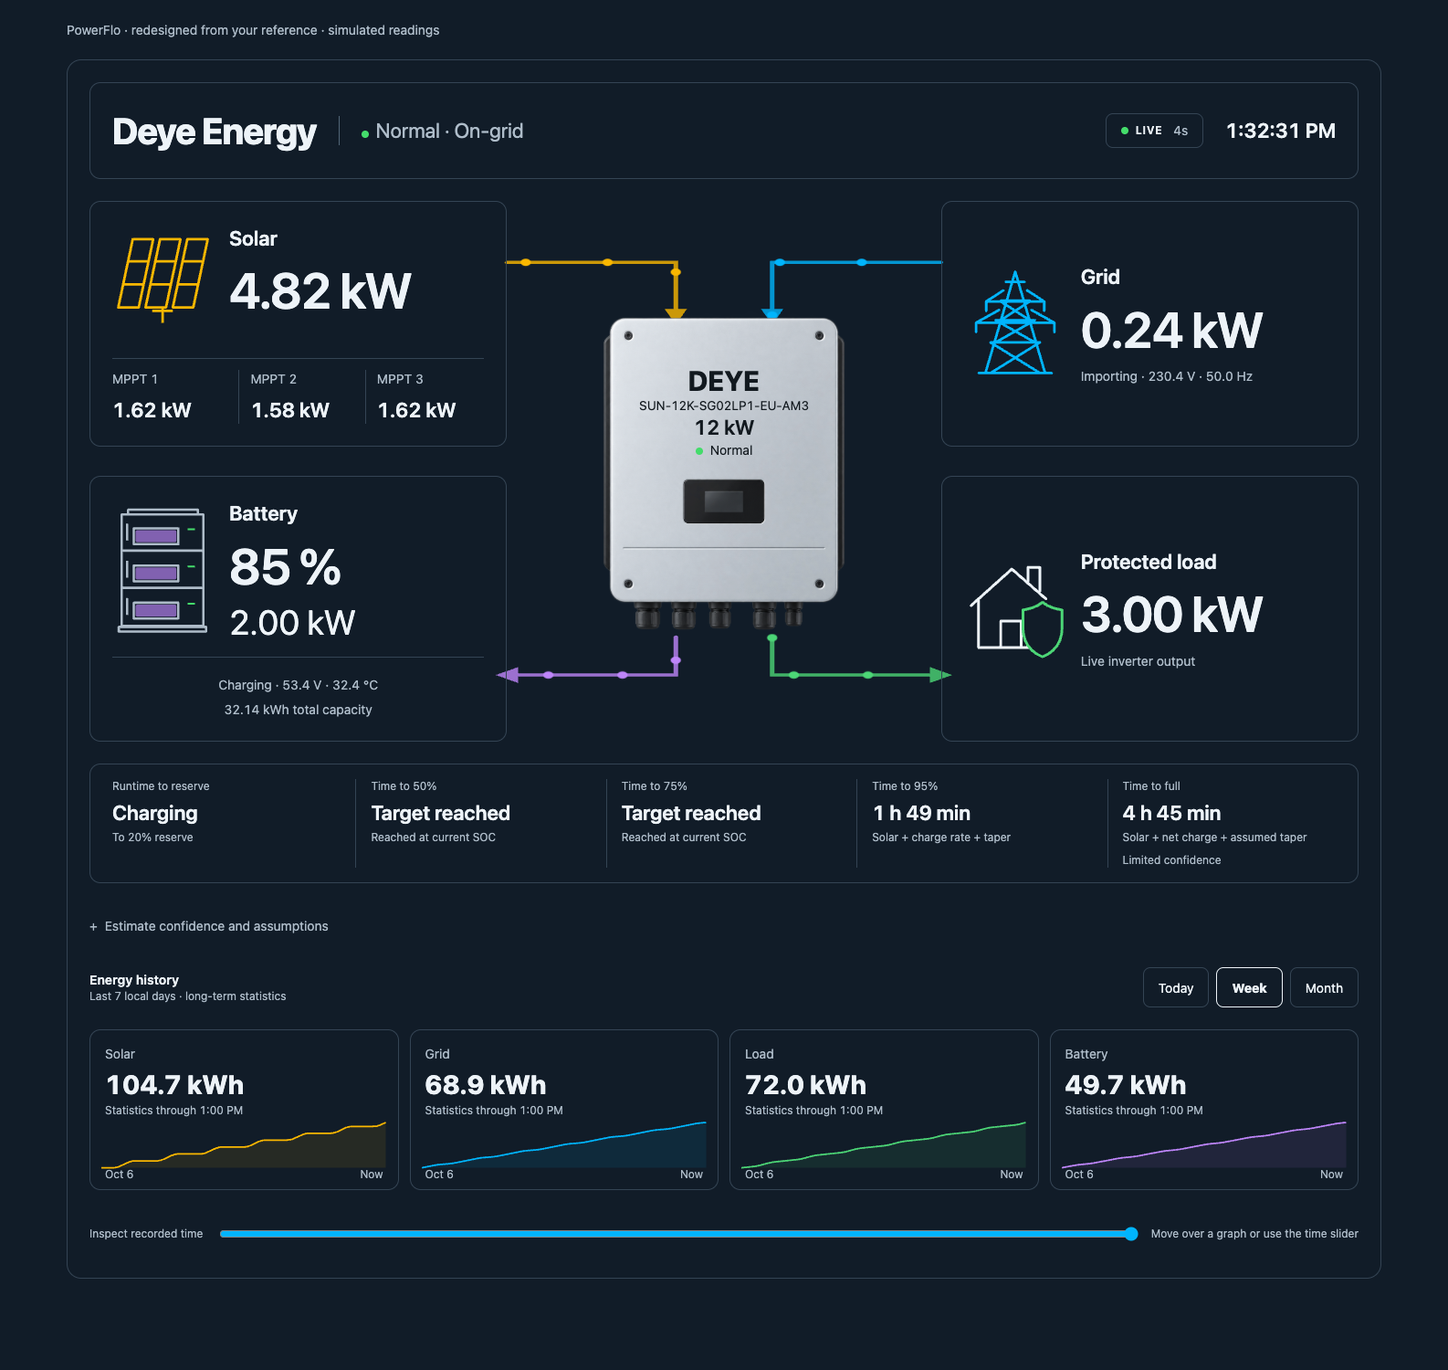
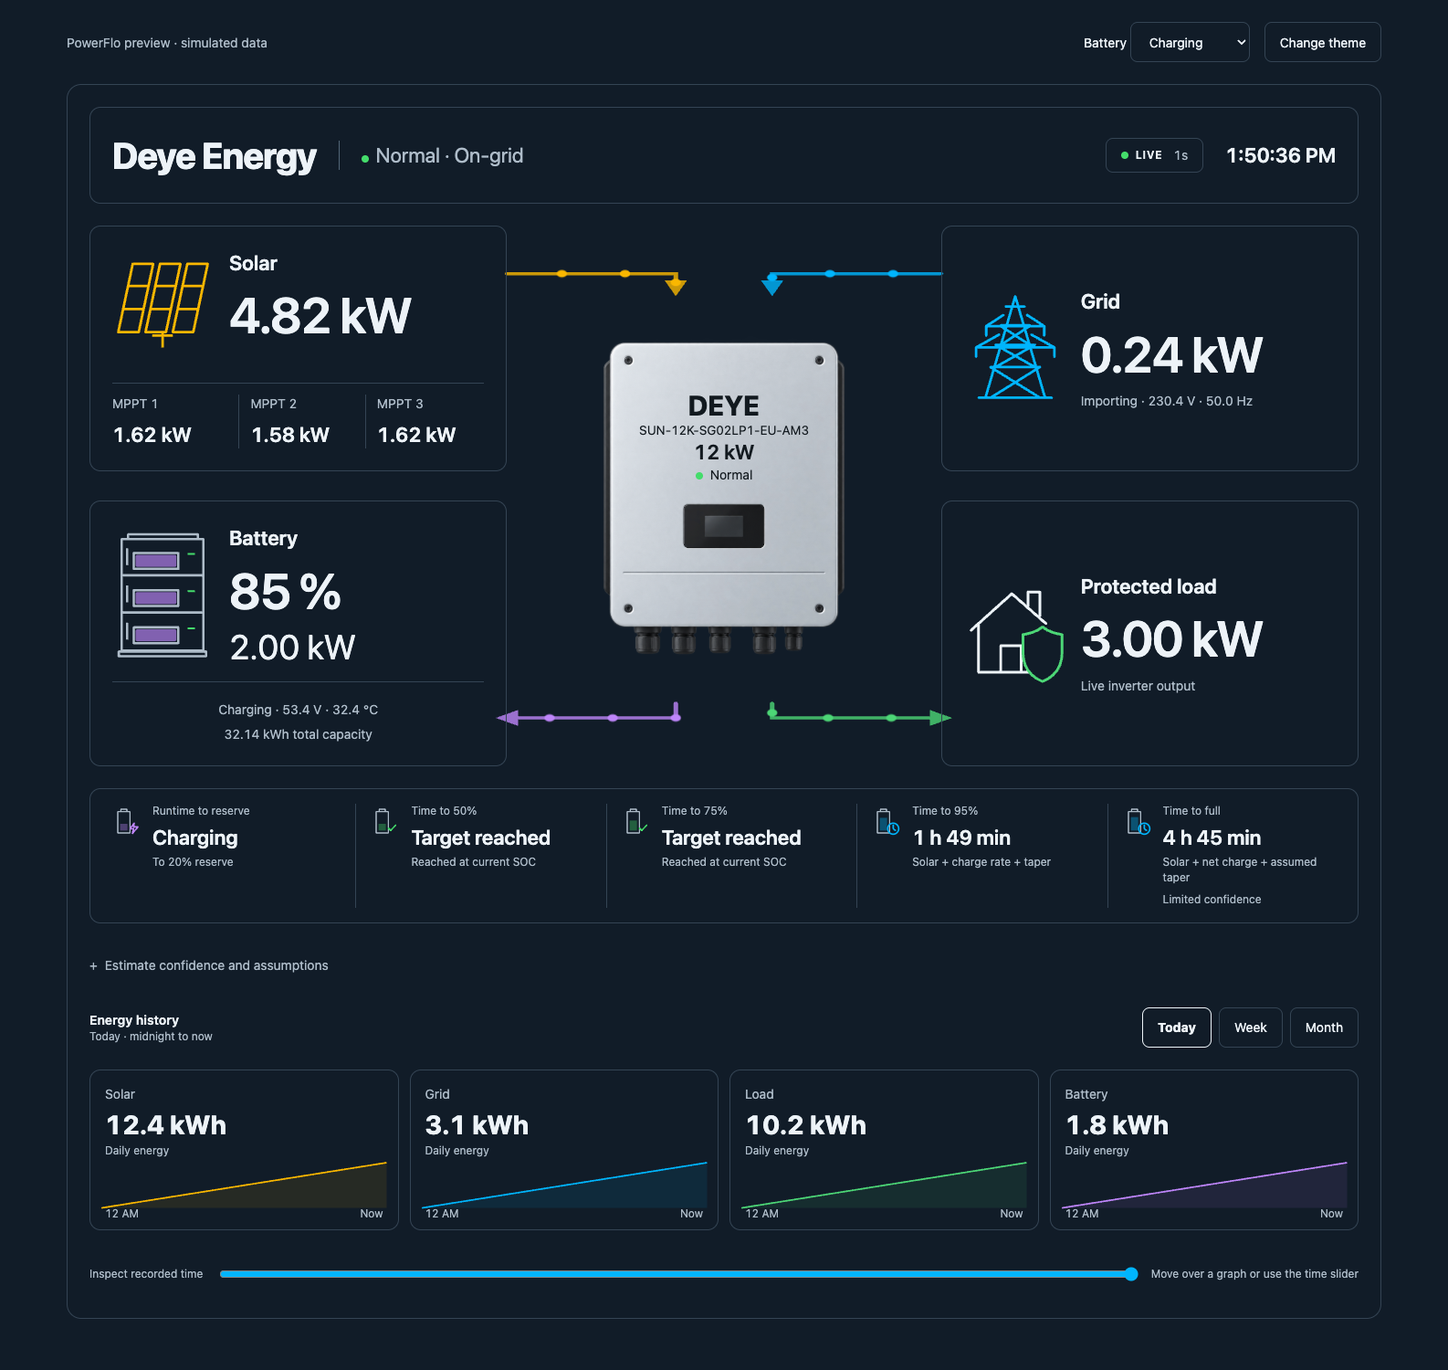
Keep PowerFlo arrows clear and illustrate forecast states
Completed: image-safe reversible connector routes; visible arrowhead clearance; state-aware illustrations beside runtime and all SOC/full estimates; icon-free energy summaries preserved; updated simulated preview and documentation; 69 passing tests, lint, coverage and build; refreshed local code graph.

diff --git a/src/card.js b/src/card.js
@@ -2,12 +2,12 @@
 import { normalizeConfig, validateConfig } from "./config.js";
 import { FlowAnimator } from "./flow-engine.js";
 import { appendHistoryPoint, downsample, sparklinePath } from "./history.js";
-import { batteryBankIcon, gridIcon, loadIcon, solarIcon } from "./icons.js";
+import { batteryBankIcon, forecastIcon, gridIcon, loadIcon, solarIcon } from "./icons.js";
 import { loadPeriodHistory, periodEnergy, periodRange } from "./period-history.js";
 import { deriveModel, numericState } from "./state-model.js";
 import { BatteryChargeEstimator, BatteryRuntimeEstimator, formatRuntime } from "./runtime.js";
 import { cardStyles } from "./styles.js";
-import { FLOW_GEOMETRY } from "./tokens.js";
+import { connectorPath } from "./connector-geometry.js";
 import { estimateConfidence, projectCharge } from "./charge-model.js";
 import { nearestObservation } from "./chart-inspection.js";
 import { loadEnergyStatistics } from "./statistics.js";
@@ -163,17 +163,9 @@ export class PowerFloCard extends HTMLElement {
     const canvas = this.shadowRoot.querySelector(".topology").getBoundingClientRect();
     if (!canvas.width || !canvas.height) return;
     const inverter = this.shadowRoot.querySelector(".inverter-visual").getBoundingClientRect();
-    const x = coordinate => (coordinate - canvas.left) / canvas.width * FLOW_GEOMETRY.width;
-    const y = coordinate => (coordinate - canvas.top) / canvas.height * FLOW_GEOMETRY.height;
     for (const name of FLOW_NAMES) {
       const node = this.shadowRoot.querySelector(`.node.${name}`).getBoundingClientRect();
-      const left = name === "solar" || name === "battery";
-      const upper = name === "solar" || name === "grid";
-      const fromX = x(left ? node.right : node.left);
-      const fromY = y(node.top + node.height * (upper ? FLOW_GEOMETRY.sourceUpper : FLOW_GEOMETRY.sourceLower));
-      const toX = x(inverter.left + inverter.width * (left ? FLOW_GEOMETRY.leftPort : FLOW_GEOMETRY.rightPort));
-      const toY = y(inverter.top + inverter.height * (upper ? FLOW_GEOMETRY.upperAnchor : FLOW_GEOMETRY.lowerAnchor));
-      this.shadowRoot.querySelector(`[data-flow-path="${name}"]`).setAttribute("d", `M${fromX} ${fromY} H${toX} V${toY}`);
+      this.shadowRoot.querySelector(`[data-flow-path="${name}"]`).setAttribute("d", connectorPath(canvas, inverter, node, name));
     }
   }
 
@@ -209,6 +201,16 @@ export class PowerFloCard extends HTMLElement {
       <footer class="summaries">${SUMMARY_NAMES.map(name => `<section class="summary" data-domain="${name}"><div class="summary-header">${label(name)}<span class="summary-value" data-summary-value="${name}"></span></div><div class="summary-coverage" data-coverage="${name}"></div><svg class="spark" viewBox="0 0 100 36" preserveAspectRatio="none" aria-hidden="true"><path class="area" data-summary-area="${name}"></path><path data-summary-path="${name}"></path><line class="chart-cursor" data-cursor="${name}" y1="0" y2="36" hidden></line></svg><div class="inspection-value" data-inspection="${name}"></div><div class="spark-labels"><span data-period-start></span><span>Now</span></div></section>`).join("")}</footer>
       <div class="chart-inspector"><label for="history-cursor">Inspect recorded time</label><input id="history-cursor" type="range" min="0" max="1000" value="1000"><output class="inspection-time" aria-live="polite">Move over a graph or use the time slider</output></div>
     </div></ha-card>`;
+    for (const [index, item] of [...this.shadowRoot.querySelectorAll(".forecast-item")].entries()) {
+      const content = document.createElement("div");
+      content.className = "forecast-content";
+      content.append(...item.childNodes);
+      const icon = document.createElement("div");
+      icon.className = "forecast-icon";
+      icon.dataset.forecastIcon = ["runtime", "50", "75", "95", "full"][index];
+      icon.setAttribute("aria-hidden", "true");
+      item.append(icon, content);
+    }
     for (const button of this.shadowRoot.querySelectorAll("[data-period]")) button.addEventListener("click", () => this.selectPeriod(button.dataset.period));
     // Channel readings use the full solar panel width rather than crowding the power column.
     this.shadowRoot.querySelector(".solar").append(this.shadowRoot.querySelector(".mppts"));
@@ -326,6 +328,7 @@ export class PowerFloCard extends HTMLElement {
       windowMs: this.config.runtime_window_minutes * 60_000, maxAgeMs: this.config.runtime_max_sample_age_seconds * 1000 };
     const runtime = this.runtimeEstimator.observe(input);
     const charge = this.chargeEstimator.observe(input);
+    this.updateForecastIcon("runtime", runtime.status);
     const states = { warming: "Collecting data", charging: "Charging", discharging: "Not charging", static: "Not discharging",
       unavailable: "Unavailable", reserve: "Reserve reached", target: "Target reached" };
     this.setText('[data-meta="battery-runtime"]', runtime.status === "ready" ? formatRuntime(runtime.hours) : runtime.status === "warming" ? "Collecting discharge data" : states[runtime.status]);
@@ -345,12 +348,14 @@ export class PowerFloCard extends HTMLElement {
       solarWatts: solar, gridImportWatts: gridImport, forecastSolarWatts: validForecast, solarHours: horizon,
       taperStart: this.config.charge_taper_start_soc, taperFloor: this.config.charge_taper_floor_ratio });
     const chargeResult = projection(this.config.battery_charge_target_soc);
+    this.updateForecastIcon("full", chargeResult.status, this.config.battery_charge_target_soc);
     const chargeText = result => result.status === "ready" ? formatRuntime(result.hours) : result.status === "solar-limited" ? "Needs more solar" :
       result.status === "warming" ? "Collecting charge data" : result.status === "static" ? "Not charging" : states[result.status];
     this.setText('[data-meta="battery-charge"]', chargeText(chargeResult));
     this.setText('[data-meta="charge-basis"]', chargeResult.status === "ready" ? "Solar + net charge + assumed taper" : `To ${this.config.battery_charge_target_soc}% SOC`);
     for (const target of [50, 75, 95]) {
       const result = projection(target);
+      this.updateForecastIcon(String(target), result.status, target);
       this.setText(`[data-target="${target}"]`, chargeText(result));
       this.setText(`[data-target-basis="${target}"]`, result.status === "target" ? "Reached at current SOC" : result.status === "ready" ? "Solar + charge rate + taper" : "Awaiting charging conditions");
     }
@@ -362,6 +367,19 @@ export class PowerFloCard extends HTMLElement {
     this.setText('[data-meta="confidence-detail"]', `${charge.status === "ready" ? chargeConfidence.detail : dischargeConfidence.detail}. Net charge already includes solar; source share and taper are modeled, not calibrated battery specifications.`);
     const ageSeconds = Number.isFinite(input.sampleTime) ? Math.max(0, Math.round((input.now - input.sampleTime) / 1000)) : null;
     this.setText(".sample-age", ageSeconds === null ? "" : `${ageSeconds}s`);
+  }
+
+  /**
+   * Updates one decorative estimate illustration from the same state as its text.
+   * @param {string} key Runtime, full, or numeric SOC column key.
+   * @param {string} status Estimate lifecycle state.
+   * @param {number|null} target Target SOC represented by the battery fill.
+   */
+  updateForecastIcon(key, status, target = null) {
+    const icon = this.shadowRoot.querySelector(`[data-forecast-icon="${key}"]`);
+    // The SVG factory emits only fixed paths and bounded numeric fill geometry, never entity text.
+    icon.dataset.status = status;
+    icon.innerHTML = forecastIcon(status, target);
   }
 
   /** Appends only fresh numeric live daily counters to the selected history. */

diff --git a/src/styles.js b/src/styles.js
@@ -30,6 +30,8 @@ export function cardStyles() {
     @container(max-width:${BREAKPOINTS.compact}){.topology{grid-template-columns:1fr 1fr;grid-template-areas:"inverter inverter" "solar grid" "battery load"}.inverter{flex-direction:row;flex-wrap:wrap;gap:var(--pf-space4)}.inverter-visual{inline-size:var(--pf-icon-lg)}.connectors{display:none}.summaries{grid-template-columns:repeat(2,minmax(0,1fr))}.header{gap:var(--pf-space3)}}
     @container(max-width:${BREAKPOINTS.narrow}){.shell{padding:var(--pf-space4);gap:var(--pf-space4)}.header{grid-template-columns:1fr auto}.freshness{grid-row:2}.clock{grid-column:2;grid-row:1}.topology{grid-template-columns:1fr;grid-template-areas:"inverter" "solar" "battery" "grid" "load";gap:var(--pf-space3)}.node{padding:var(--pf-space4)}.summaries{grid-template-columns:1fr}.period-controls{inline-size:100%}.period-controls button{flex:1}.history-toolbar{display:grid}.forecasts{gap:var(--pf-space3)}}
     @media(prefers-reduced-motion:reduce){.particle{display:none}}
+    /* Forecast illustrations sit beside text; the four energy summaries remain icon-free. */
+    .forecast-item{display:grid;grid-template-columns:var(--pf-forecast-icon-size) minmax(0,1fr);gap:var(--pf-space3);align-items:start}.forecast-content{min-inline-size:0}.forecast-icon{inline-size:var(--pf-forecast-icon-size);color:var(--pf-battery);margin-block-start:var(--pf-space1)}.forecast-icon svg{display:block;inline-size:100%;block-size:auto}.forecast-icon[data-status="target"],.forecast-icon[data-status="reserve"]{color:var(--pf-live)}.forecast-icon[data-status="ready"]{color:var(--pf-grid)}.forecast-icon[data-status="solar-limited"]{color:var(--pf-solar)}.forecast-icon[data-status="unavailable"],.forecast-icon[data-status="static"],.forecast-icon[data-status="discharging"]{color:var(--pf-text-muted)}
     /* Reference-led composition: icons and readings carry the hierarchy; the inverter floats. */
     .header{padding:var(--pf-space6);border:var(--pf-border-width) solid var(--pf-border);border-radius:var(--pf-radius-md)}.identity{display:flex;align-items:center;gap:var(--pf-space6);min-width:0}.status{margin:0;padding-inline-start:var(--pf-space6);border-inline-start:var(--pf-border-width) solid var(--pf-border-strong);font-size:var(--pf-node-title-size);white-space:nowrap}.title{white-space:nowrap}.live-pill{display:flex;align-items:center;gap:var(--pf-space3);padding:var(--pf-space2) var(--pf-space4);border:var(--pf-border-width) solid var(--pf-border);border-radius:var(--pf-radius-sm)}.sample-age{color:var(--pf-text-muted);font-size:var(--pf-body-size)}.clock{font-size:var(--pf-node-title-size)}
     .topology{grid-template-columns:minmax(0,1fr) minmax(var(--pf-inverter-width),.9fr) minmax(0,1fr);gap:var(--pf-space8)}.node{padding:var(--pf-space6);grid-template-columns:var(--pf-icon-lg) minmax(0,1fr);gap:var(--pf-space4)}.node-icon{inline-size:var(--pf-icon-lg)}.node-title{font-size:var(--pf-node-title-size);color:var(--pf-text);font-weight:var(--pf-weight-medium)}.node-value{margin-block:var(--pf-space3);font-weight:var(--pf-weight-medium)}.mppts{grid-column:1/-1}.mppt{font-size:var(--pf-body-size)}.mppt strong{font-size:var(--pf-node-title-size);margin-block-start:var(--pf-space2)}.node-meta{font-size:var(--pf-body-size)}.battery{display:grid}.battery-power{font-size:var(--pf-secondary-value-size);line-height:var(--pf-line-height-tight)}.battery-details{grid-column:1/-1;text-align:center;border-block-start:var(--pf-border-width) solid var(--pf-border);padding-block-start:var(--pf-space3)}

diff --git a/test/card-runtime.test.js b/test/card-runtime.test.js
@@ -2,6 +2,8 @@
 import { afterEach, beforeEach, describe, expect, it, vi } from "vitest";
 import { PowerFloCard } from "../src/card.js";
 import { DEFAULT_CONFIG } from "../src/config.js";
+import { connectorPath } from "../src/connector-geometry.js";
+import { FLOW_GEOMETRY } from "../src/tokens.js";
 
 if (!customElements.get("test-runtime-card")) customElements.define("test-runtime-card", PowerFloCard);
 
@@ -66,6 +68,47 @@ describe("battery panel runtime", () => {
     vi.setSystemTime(new Date("2026-10-12T10:01:01Z"));
     card.updateModel();
     expect(card.shadowRoot.querySelector('[data-meta="battery-runtime"]').textContent).toContain("Unavailable");
+  });
+});
+
+describe("visible flow arrows and forecast illustrations", () => {
+  it("keeps every route segment outside the image rectangle including overlapping panel anchors", () => {
+    const canvas = { left: 0, top: 0, width: 1000, height: 600 };
+    const inverter = { left: 400, right: 600, top: 120, bottom: 480, width: 200, height: 360 };
+    for (const name of ["solar", "grid", "battery", "load"]) {
+      const left = name === "solar" || name === "battery";
+      const node = { left: left ? 0 : 700, right: left ? 300 : 1000, top: 160, height: 280 };
+      const path = connectorPath(canvas, inverter, node, name);
+      const numbers = path.match(/-?\d+(?:\.\d+)?/g).map(Number);
+      const [fromX, fromY, portX, endY] = numbers;
+      const upper = name === "solar" || name === "grid";
+      expect(endY).toBe(upper ? inverter.top - FLOW_GEOMETRY.arrowClearance : inverter.bottom + FLOW_GEOMETRY.arrowClearance);
+      // Every leg stays on an external lane or above/below the image; no arrow can be occluded.
+      expect(left ? fromX < inverter.left : fromX > inverter.right).toBe(true);
+      expect(upper ? fromY < inverter.top : fromY > inverter.bottom).toBe(true);
+      expect(portX).toBeGreaterThan(inverter.left);
+      expect(portX).toBeLessThan(inverter.right);
+    }
+  });
+  it("normalizes offset and scaled layouts without shrinking the physical arrow clearance", () => {
+    const path = connectorPath({ left: 50, top: 25, width: 2000, height: 1200 },
+      { left: 850, right: 1250, top: 265, bottom: 985, width: 400 },
+      { right: 650, top: 105, height: 160 }, "solar");
+    expect(path).toBe("M300 60 H470 V112");
+  });
+  it("shows state-aware icons beside all five estimates, never in energy summaries", () => {
+    const card = fixture({ battery_positive: "charge" });
+    card.updateModel();
+    const root = card.shadowRoot;
+    expect(root.querySelectorAll(".forecast-icon svg")).toHaveLength(5);
+    expect(root.querySelector('[data-forecast-icon="runtime"]').dataset.status).toBe("charging");
+    expect(root.querySelector('[data-forecast-icon="50"]').dataset.status).toBe("target");
+    expect(root.querySelector('[data-forecast-icon="75"]').dataset.status).toBe("target");
+    expect(root.querySelector('[data-forecast-icon="95"]').dataset.status).toBe("warming");
+    expect(root.querySelectorAll(".summary .forecast-icon")).toHaveLength(0);
+    card.hassValue.states[card.config.entities.freshness].state = "off";
+    card.updateModel();
+    expect(root.querySelector('[data-forecast-icon="full"]').dataset.status).toBe("unavailable");
   });
 });
 

diff --git a/src/icons.js b/src/icons.js
@@ -19,3 +19,25 @@ export function loadIcon() {
 export function batteryBankIcon() {
   return `<svg viewBox="0 0 110 140" aria-hidden="true"><g fill="none" stroke="var(--pf-text-muted)" stroke-width="2.5" stroke-linejoin="round"><path d="M10 10h88v120H10zM17 10V5h75v5M10 49h88M10 89h88M7 131h94v5H7z"/><path d="M16 20v18M16 60v18M16 100v18M23 25h48v17H23zM23 65h48v17H23zM23 105h48v17H23z"/></g><g fill="currentColor" fill-opacity=".65"><rect x="25" y="27" width="44" height="13" rx="2"/><rect x="25" y="67" width="44" height="13" rx="2"/><rect x="25" y="107" width="44" height="13" rx="2"/></g><g stroke="var(--pf-live)" stroke-width="2"><path d="M81 26h8M81 66h8M81 106h8"/></g></svg>`;
 }
+
+/**
+ * Illustrates an estimate's state without relying on color or motion alone.
+ * @param {string} status Ready, target, charging, warming, unavailable, or paused state.
+ * @param {number|null} target SOC milestone, or null for runtime.
+ * @returns {string} Trusted decorative battery and status-badge SVG.
+ */
+export function forecastIcon(status, target = null) {
+  const level = target === null ? 0.5 : Math.max(0, Math.min(1, target / 100));
+  const fillHeight = 22 * level;
+  const badges = {
+    target: '<path d="m29 34 4 4 8-9"/>',
+    reserve: '<path d="m29 34 4 4 8-9"/>',
+    charging: '<path d="m36 26-7 9h6l-2 8 9-11h-7Z"/>',
+    ready: '<circle cx="35" cy="35" r="9"/><path d="M35 29v6l4 3"/>',
+    warming: '<circle cx="35" cy="35" r="9"/><path d="M35 29v6l4 3"/>',
+    "solar-limited": '<circle cx="35" cy="35" r="5"/><path d="M35 25v-3M35 45v-3M25 35h-3M45 35h-3M28 28l-2-2M42 42l-2-2M42 28l2-2M26 42l2-2"/>',
+    unavailable: '<circle cx="35" cy="35" r="9"/><path d="M35 29v7M35 40v1"/>',
+  };
+  const badge = badges[status] ?? '<circle cx="35" cy="35" r="9"/><path d="M32 31v8M38 31v8"/>';
+  return `<svg viewBox="0 0 48 48" aria-hidden="true"><g fill="none" stroke="var(--pf-text-muted)" stroke-width="2" stroke-linecap="round" stroke-linejoin="round"><path d="M14 7V3h10v4M9 7h20v35H9Z"/></g><rect x="13" y="${38 - fillHeight}" width="12" height="${fillHeight}" rx="1" fill="currentColor" fill-opacity=".35"/><g fill="none" stroke="currentColor" stroke-width="2.5" stroke-linecap="round" stroke-linejoin="round">${badge}</g></svg>`;
+}

diff --git a/src/connector-geometry.js b/src/connector-geometry.js
@@ -1,0 +1,26 @@
+/** @fileoverview Image-safe orthogonal routes for reversible live power flows. */
+import { FLOW_GEOMETRY } from "./tokens.js";
+
+/**
+ * Routes a connector around the entire image box, including custom uploaded art.
+ * @param {Object} canvas Topology client rectangle.
+ * @param {Object} inverter Image client rectangle.
+ * @param {Object} node Source panel client rectangle.
+ * @param {string} name Solar, grid, battery, or load domain.
+ * @returns {string} Normalized SVG path with a clear terminal arrowhead.
+ */
+export function connectorPath(canvas, inverter, node, name) {
+  const left = name === "solar" || name === "battery";
+  const upper = name === "solar" || name === "grid";
+  const gap = FLOW_GEOMETRY.arrowClearance;
+  const fromX = left ? node.right : node.left;
+  const anchorY = node.top + node.height * (upper ? FLOW_GEOMETRY.sourceUpper : FLOW_GEOMETRY.sourceLower);
+  const portX = inverter.left + inverter.width * (left ? FLOW_GEOMETRY.leftPort : FLOW_GEOMETRY.rightPort);
+  const endY = upper ? inverter.top - gap : inverter.bottom + gap;
+  // Align the horizontal lane outside the image, leaving a short, visible final approach.
+  // Clamping the panel-side anchor avoids extra doglegs when the image overlaps its height.
+  const fromY = upper ? Math.min(anchorY, endY - gap) : Math.max(anchorY, endY + gap);
+  const x = value => (value - canvas.left) / canvas.width * FLOW_GEOMETRY.width;
+  const y = value => (value - canvas.top) / canvas.height * FLOW_GEOMETRY.height;
+  return `M${x(fromX)} ${y(fromY)} H${x(portX)} V${y(endY)}`;
+}

diff --git a/src/tokens.js b/src/tokens.js
@@ -37,6 +37,7 @@ export const TOKENS = Object.freeze({
   borderWidth: "0.0625rem",
   iconSm: "1.25rem",
   iconMd: "2rem",
+  forecastIconSize: "2rem",
   iconLg: "7rem",
   touch: "2.75rem",
   cardMinHeight: "34rem",
@@ -85,7 +86,7 @@ export const TOKENS = Object.freeze({
 export const BREAKPOINTS = Object.freeze({ compact: "58rem", narrow: "34rem" });
 
 /** Normalized connector canvas and inverter attachment positions. */
-export const FLOW_GEOMETRY = Object.freeze({ width: 1000, height: 600, upperAnchor: 0.1, lowerAnchor: 0.93, leftPort: 0.35, rightPort: 0.65, sourceUpper: 0.25, sourceLower: 0.75 });
+export const FLOW_GEOMETRY = Object.freeze({ width: 1000, height: 600, arrowClearance: 16, leftPort: 0.35, rightPort: 0.65, sourceUpper: 0.25, sourceLower: 0.75 });
 
 /**
  * Converts tokens into CSS custom properties scoped to the card.

diff --git a/vitest.config.js b/vitest.config.js
@@ -12,7 +12,7 @@ const config = defineConfig({
     coverage: {
       provider: "v8",
       reporter: ["text", "json-summary"],
-      include: ["src/config.js", "src/state-model.js", "src/flow-engine.js", "src/history.js", "src/runtime.js", "src/period-history.js", "src/charge-model.js", "src/statistics.js", "src/chart-inspection.js"],
+      include: ["src/config.js", "src/state-model.js", "src/flow-engine.js", "src/history.js", "src/runtime.js", "src/period-history.js", "src/charge-model.js", "src/statistics.js", "src/chart-inspection.js", "src/connector-geometry.js", "src/icons.js"],
       thresholds: {
         lines: 80,
         functions: 80,

diff --git a/changelog.md b/changelog.md
@@ -2,6 +2,9 @@
 
 ## Unreleased
 
+- Keep connector approaches and arrowheads outside the full inverter-image rectangle, including custom uploaded art.
+- Add state-aware battery/status illustrations beside runtime, 50%, 75%, 95%, and full/target estimates; retain icon-free energy summaries.
+
 - Rebuild the visual hierarchy to follow the supplied reference: large detailed icons/readings, generated transparent inverter illustration, editable overlay labels, clearer flow routes, and a separate milestone strip.
 - Add data-quality confidence based on observed duration, count, age, and variability; cap assumed future solar/taper projections at Moderate.
 - Project 50%, 75%, 95%, and full/configured target using measured net charge, modeled solar share, a sunset/horizon cap, optional solar-power forecast, and configurable assumed high-SOC taper.

diff --git a/README.md b/README.md
@@ -24,6 +24,8 @@ PowerFlo reads Home Assistant entities. It does not connect to Modbus, call Home
 - Configurable battery and grid sign conventions.
 - Reversible solar, grid, battery, and load arrows driven by current power state.
 - Freshness-gated transform-only flow particles.
+- Image-safe arrow routes keep endpoints clear of default and uploaded inverter art.
+- State-aware battery illustrations accompany all five estimate columns; energy summaries remain icon-free.
 - Solar, Grid, Load, and Battery energy histories with Today, Week, and Month views; Week/Month use validated long-term statistics.
 - Shared pointer, touch, and keyboard chart inspection with actual observation timestamps.
 - Editable title, inverter identity, ratings, clock format, and safe local raster image upload.
